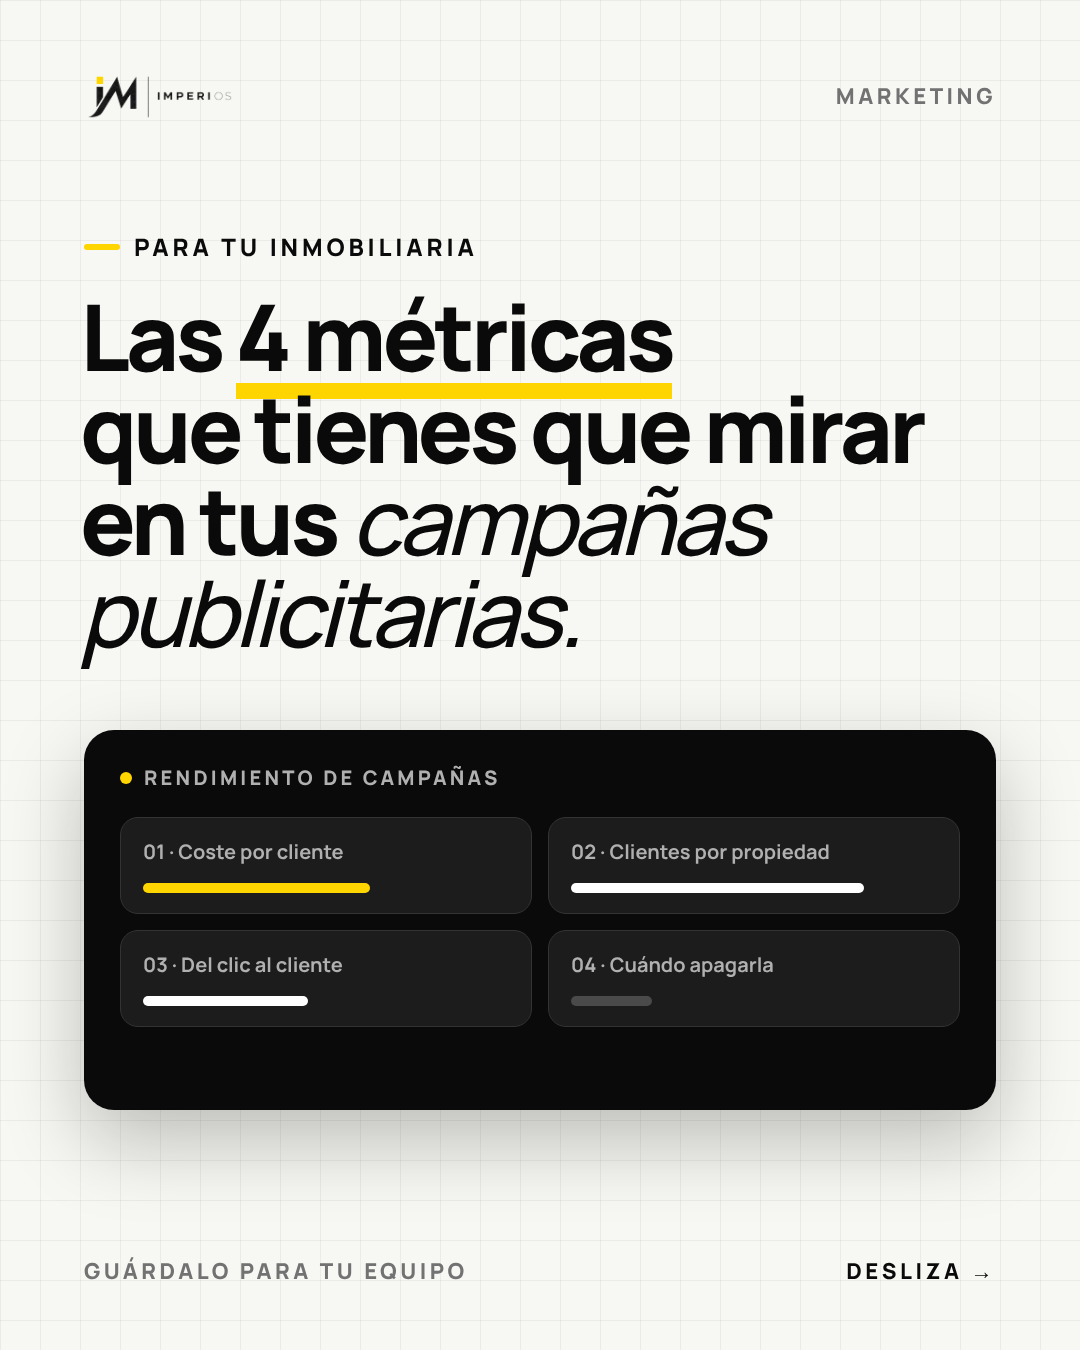
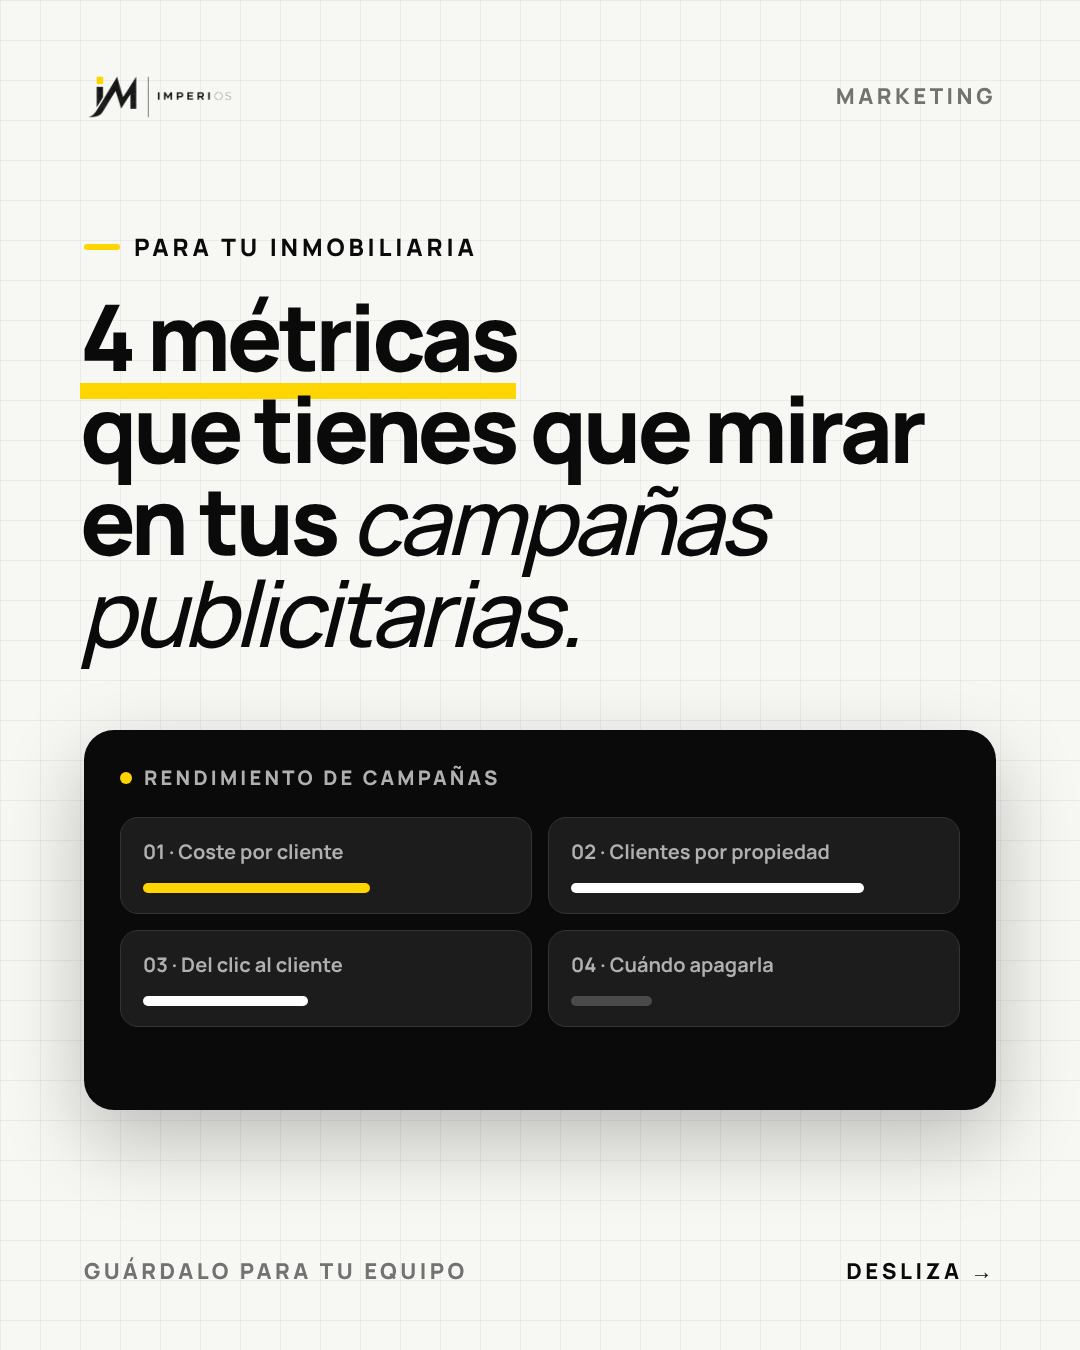
Carrusel métricas: portada sin «Las»
Claude-Session: https://claude.ai/code/session_01GUwAx98LwDLChJJ4cX9B1a

Changed region(s): [[0.0611, 0.2178, 0.6417, 0.3111]]

diff --git a/ADV/ImperiOS Ad/preview/src/carrusel-metricas.html b/ADV/ImperiOS Ad/preview/src/carrusel-metricas.html
@@ -46,7 +46,7 @@ p.body b { color: var(--ink-950); }
 <section class="slide" data-n="1">
   <div class="abs head"><img src="../../assets_in/brand-kit/assets/logo-imperios-navbar.svg" alt="ImperiOS"><span>MARKETING</span></div>
   <div class="abs lbl" style="left:84px;top:230px"><i></i>PARA TU INMOBILIARIA</div>
-  <h1 class="abs" style="left:80px;right:60px;top:290px;font-size:92px">Las <span class="ul">4 métricas</span><br>que tienes que mirar<br>en tus <em>campañas<br>publicitarias.</em></h1>
+  <h1 class="abs" style="left:80px;right:60px;top:290px;font-size:92px"><span class="ul">4 métricas</span><br>que tienes que mirar<br>en tus <em>campañas<br>publicitarias.</em></h1>
   <div class="abs dark" style="left:84px;right:84px;top:730px;height:380px;padding:34px 36px">
     <div style="display:flex;align-items:center;gap:12px;font-weight:800;font-size:20px;letter-spacing:.16em;color:var(--ink-500)"><span class="dot"></span>RENDIMIENTO DE CAMPAÑAS</div>
     <div style="display:grid;grid-template-columns:1fr 1fr;gap:16px;margin-top:26px">
